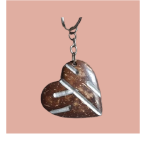
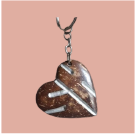
aksesoris

diff --git a/aksesoris.html b/aksesoris.html
@@ -3,7 +3,7 @@
 <head>
   <meta charset="UTF-8">
   <meta name="viewport" content="width=device-width, initial-scale=1.0">
-  <title>Gelang Batu</title>
+  <title>Aksesoris</title>
   <link rel="stylesheet" href="gelang.css">
   <link rel="icon" type="image/x-icon" href="images/logo.png">
   <link href="https://unpkg.com/aos@2.3.1/dist/aos.css" rel="stylesheet">
@@ -15,19 +15,18 @@
     <a href="index.html"><button class="back-button">&larr;</button></a>
     <div class="product">
       <div class="product-image">
-        <img src="ASSET/ASSET 4F/Asset 192.png" alt="Gelang Batu" />
+        <img src="ASSET/ASSET 4A/Asset 63_1.png" alt="Gelang Batu" />
       </div>
       <div class="product-info">
-        <h1 class="product-title">GELANG BATU</h1>
+        <h1 class="product-title">GANTUNGAN KUNCI</h1>
         <p class="product-description">
-          Gelang batu beraterial batu Alam Asli, kait dan Rantai Stainless. 
-          Serta memiliki detail model simple dan terlihat mewah dan ukurannya 
-          dapat diatur sesuai kebutuhan.
+          Gantungan kunci yang berbahan dasar batok kelapa. Pengerjaan yang diberikan menghasilkan produk yang berkualitas premium sehingga hasiln- ya rapi dan halus. 
+          Cocok disandingkan sengan kunci rumah, motor, dan lain-lain. Tersedia 3 macam varian yaitu bentuk daun, hati, dan gitar.
         </p>
         <div class="product-thumbnails">
-          <img src="ASSET/ASSET 4F/Asset 190.png" alt="Thumbnail 1" />
-          <img src="ASSET/ASSET 4F/Asset 191.png" alt="Thumbnail 2" />
-          <img src="ASSET/ASSET 4F/Asset 189.png" alt="Thumbnail 3" />
+          <img src="ASSET/ASSET 4A/Asset 64_1.png" alt="Thumbnail 1" />
+          <img src="ASSET/ASSET 4A/Asset 62.png" alt="Thumbnail 2" />
+          <img src="ASSET/ASSET 4A/Asset 63.png" alt="Thumbnail 3" />
         </div>
         <a href="wa.me/+6282245586492"><button class="buy-now">BUY NOW</button></a>
       </div>
@@ -37,19 +36,19 @@
     <a href="index.html"><button class="back-button">&larr;</button></a>
     <div class="product">
       <div class="product-image">
-        <img src="ASSET/ASSET 4G/Asset 215.png" alt="Gelang Batu" />
+        <img src="ASSET/ASSET 4E/Asset 78.png" alt="Gelang Batu" />
       </div>
       <div class="product-info">
-        <h1 class="product-title">GELANG KERANG</h1>
+        <h1 class="product-title">DOMPET RAJUT</h1>
         <p class="product-description">
-            Gelang ini bermaterial kerang Asli dan tali giok. Serta memiliki detail
-            Desain simple dan estetik, model Serut (bisa diatur sesuai kebutuhan), dan
-            Diameter 3 mm
+          Dompet rajut motif bunga merupakan hasil orisinil dari pengrajin kerajinan tangan berbasis kearifan lokal. Dompet terbuat dari benang poliester yang berkualitas premium. Cocok untuk dibawa hangout dan berpergian cantik bersama teman atau keluarga tercinta. Tersedia 3 varian warna yang berbeda yaitu ungu,bata tua, dan merah hati.
+          <br><br>
+          Panjang: 13 cm; Lebar: 4 cm; Tinggi: 10 cm
         </p>
         <div class="product-thumbnails">
-          <img src="ASSET/ASSET 4G/Asset 210.png" alt="Thumbnail 1" />
-          <img src="ASSET/ASSET 4G/Asset 212.png" alt="Thumbnail 2" />
-          <img src="ASSET/ASSET 4G/Asset 211.png" alt="Thumbnail 3" />
+          <img src="ASSET/ASSET 4E/Asset 84.png" alt="Thumbnail 1" />
+          <img src="ASSET/ASSET 4E/Asset 83.png" alt="Thumbnail 2" />
+          <img src="ASSET/ASSET 4E/Asset 77.png" alt="Thumbnail 3" />
         </div>
         <a href="wa.me/+6282245586492"><button class="buy-now">BUY NOW</button></a>
       </div>

diff --git a/index.html b/index.html
@@ -104,7 +104,7 @@
                 <a href=""><i class="fa fa-facebook"></i></a>
                 <a href=""><i class="fa fa-instagram"></i></a>
             </div>
-            <p class="footer-copyright">Copyright © 2024. Bayucaraka</p>
+            <p class="footer-copyright">Copyright © 2024. Aksaraloka</p>
         </div>
     </footer>
     <script src="script.js"></script>

diff --git a/gelang.css b/gelang.css
@@ -110,7 +110,7 @@ body {
   }
 }
 
-@media screen and (max-width: 600px) {
+@media screen and (max-width: 650px) {
   .container {
     max-width: 80%;
     margin: 20px auto;
